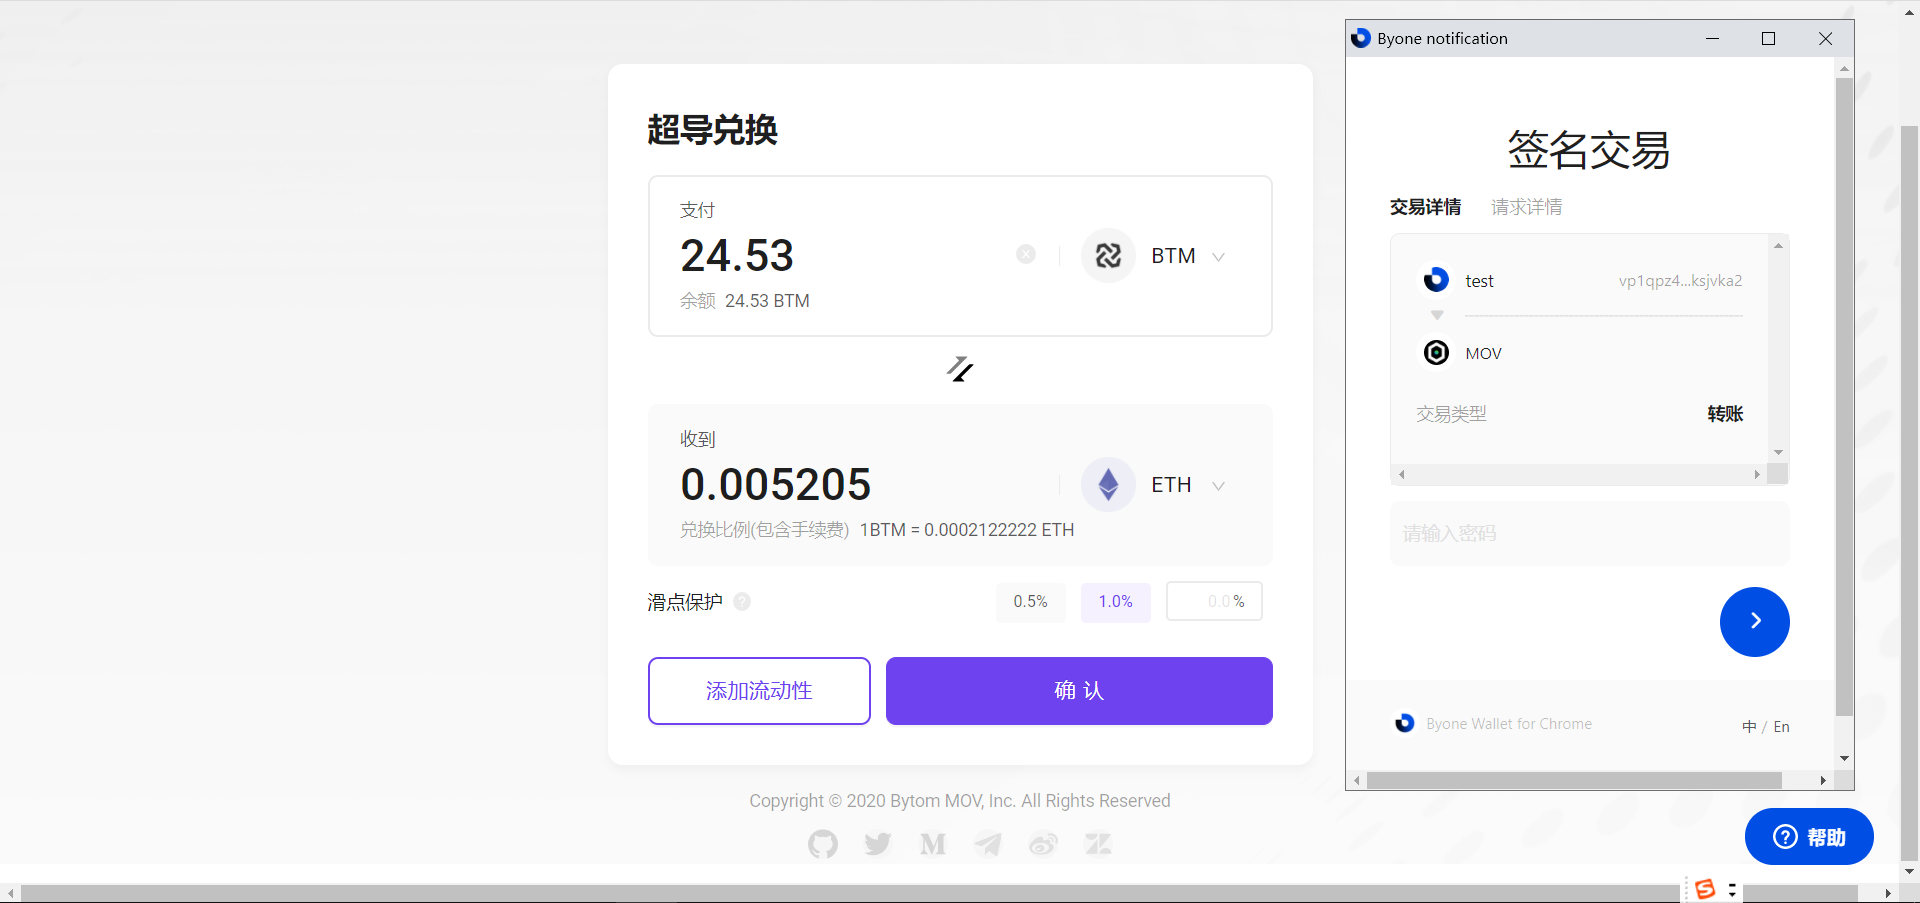
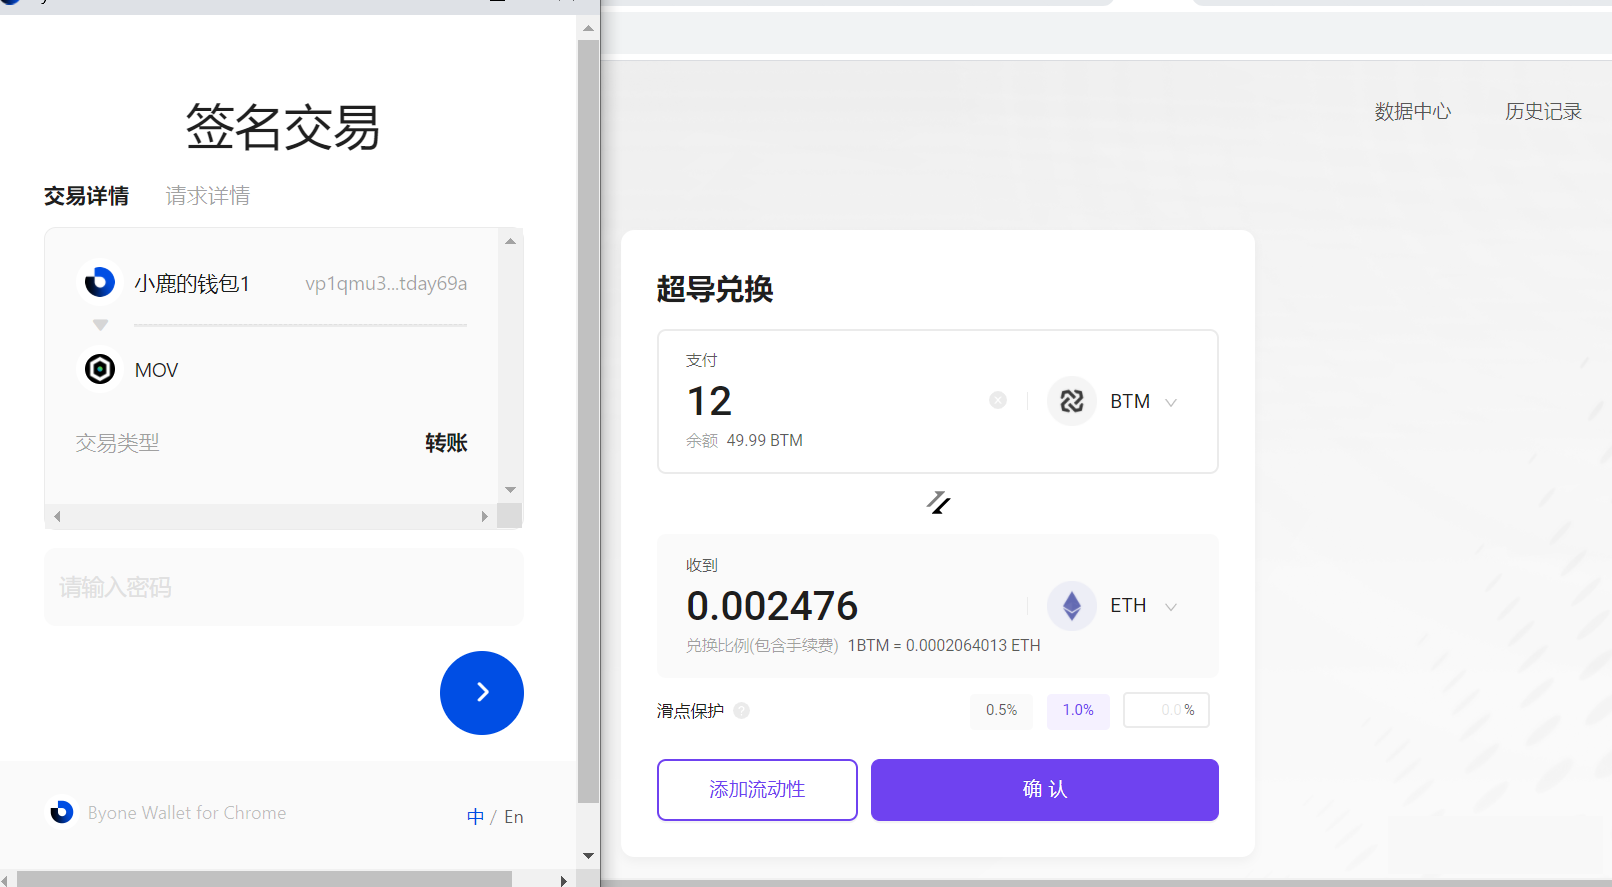
add some

diff --git a/web/web超导理财.md b/web/web超导理财.md
@@ -1,0 +1,28 @@
+## MOV Web超导理财
+
+### 连接钱包
+
+在使用超导理财之前，请先安装Byone的谷歌插件，Byone具体如何操作，插件钱包Byone使用手册: https://weibo.com/ttarticle/p/show?id=2309404534224190570687#_0 并及时备份。
+
+###  非稳定币理财
+
+点击进入：https://supertx.bymov.io/swap#
+
+点击“理财”——“添加流动性”
+
+![](../images/web-supertx-liquidity1.png)
+
+目前非稳定币超导理财不支持单币种理财，如果你想参与BTM/ETH的理财，但你又只有BTM，那么只能先将BTM兑换一半到ETH，再加入流动池参与理财。（此处要提醒的是注意无常损失：白话无常损失https://weibo.com/ttarticle/p/show?id=2309404521926180864027#_0）
+
+![](../images/web-supertx-liquidity2.png)
+
+投入你想投入的数量，点击“转入”，收益第二天会显示，等你取出本金的时候，利息才会打到你的地址上。
+
+###  稳定币理财
+
+目前稳定币理财支持单币种理财和双币种理财两种模式， USDT/USDC/DAI三种稳定币可以任选一个币种参与稳定币理财
+
+![](../images/web-supertx-liquidity3.png)
+
+点击“转入”——“确认”——转入成功，理财收益在你取出本金的时候才会打到地址上。
+

diff --git a/web/web超导兑换.md b/web/web超导兑换.md
@@ -4,7 +4,9 @@
 
 在使用超导兑换之前，请先安装Byone的谷歌插件，Byone具体如何操作，插件钱包Byone使用手册: https://weibo.com/ttarticle/p/show?id=2309404534224190570687#_0 并及时备份。
 
-### 超导兑换
+###  非稳定币兑换
+
+非稳定币超导兑换币种包括BTM,BTC,ETH，BTM兑换其他币种最低限额12BTM，BTC兑换其他币种最低限额0.0001 BTC，ETH兑换其他币种最低限额0.001ETH.非稳定币的超导兑换手续费是千分之一，侧链交易转账几乎能实现秒到账，没有延迟。
 
 点击进入：https://supertx.bymov.io/swap#
 
@@ -18,4 +20,15 @@
 
 ![](../images/web-supertx2.png)
 
-输入密码，确认成功，查看您的账户资产
+输入密码，确认成功
+
+![](../images/web-supertx3.png)
+
+交易几乎可以实现秒到账，可以点击Byone钱包查看自己余额，刚刚兑换的ETH和BTC已经在钱包里了。
+
+###  稳定币兑换
+
+目前可实现DAI/USDC/USDT三种稳定币的兑换，稳定币超导兑换的手续费低，滑点小，目前手续费是万分之五。
+
+![](../images/web-supertx4.png)
+

diff --git a/web/web跨链.md b/web/web跨链.md
@@ -1,0 +1,29 @@
+## Web跨链教程
+
+### 连接钱包
+
+在使用跨链之前，请先安装MetaMask以及Byone的谷歌插件，Byone具体如何操作，可看之前的文章—— [如何连接Byone钱包](https://support.bymov.io/web/web%E8%BF%9E%E6%8E%A5byone%E9%92%B1%E5%8C%85.html) 并及时备份。
+
+在跨链页面下，点击钱包icon下的连接按钮，分别唤起授权提示进行连接。
+
+![](../images/web-crosschain1.png)
+
+授权Byonek连接
+
+![](../images/web-crosschain2.png)
+
+授权Metamask连接
+
+![](../images/web-crosschain3.png)
+
+### 跨入
+
+点击“铸币”即可将主链上的币跨进MOV
+
+![](../images/web-crosschain4.png)
+
+### 跨出
+
+点击“融币”即可将侧链的币跨出
+
+![](../images/web-crosschain5.png)

diff --git a/README.md b/README.md
@@ -39,7 +39,9 @@
 ### MOV-Web
 
 - [如何连接Byone钱包](web/web连接byone钱包.md)
+- [MOV web如何进行跨链](web/web跨链.md)
 - [MOV web如何进行超导兑换](web/web超导兑换.md)
+- [MOV web如何进行超导理财](web/web超导理财.md)
 
 ### 活动
 

diff --git a/SUMMARY.md b/SUMMARY.md
@@ -38,7 +38,9 @@
 ### MOV-Web
 
 - [如何连接Byone钱包](web/web连接byone钱包.md)
+- [MOV web如何进行跨链](web/web跨链.md)
 - [MOV web如何进行超导兑换](web/web超导兑换.md)
+- [MOV web如何进行超导理财](web/web超导理财.md)
 
 ### 活动
 
